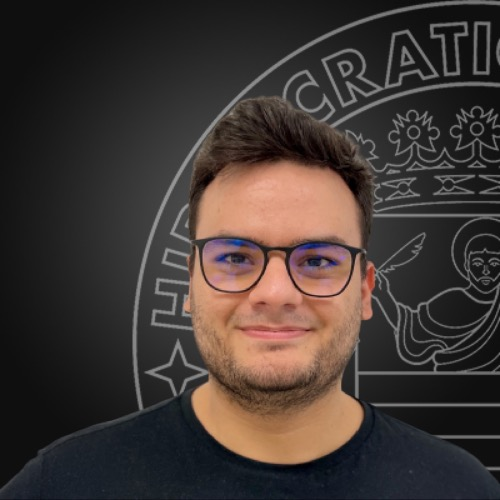
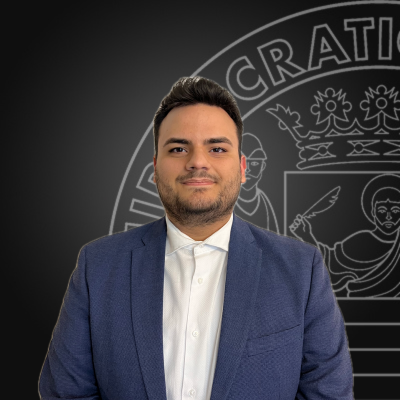
add luana, antoniot, move fabiano

diff --git a/en/index.html b/en/index.html
@@ -303,8 +303,8 @@
                 <p>
                   <a href="https://www.gemmacatolino.com//"><i class="bi bi-globe2" data-toggle="tooltip"
                       data-placement="bottom" title="Personal page"></i></a>
-                  <a href="mailto:g.catolino@tilburguniversity.edu"><i class="bi bi-envelope-fill" data-toggle="tooltip"
-                      data-placement="bottom" title="g.catolino@tilburguniversity.edu"></i></a>
+                  <a href="mailto:gcatolino@unisa.it"><i class="bi bi-envelope-fill" data-toggle="tooltip"
+                      data-placement="bottom" title="gcatolino@unisa.it"></i></a>
                   <a href="https://twitter.com/g_catolino"><i class="bi bi-twitter" data-toggle="tooltip"
                       data-placement="bottom" title="@g_catolino"></i></a>
                 </p>
@@ -320,27 +320,6 @@
         </header>
 
         <div class="row gy-4 justify-content-center">
-
-          <div class="col-lg-3 col-md-6  col-sm-8 d-flex justify-content-center" data-aos="fade-up"
-            data-aos-delay="100">
-            <div class="member">
-              <div class="member-img">
-                <img src="../assets/img/team/pecorelli.jpg" class="img-fluid" alt="">
-              </div>
-              <div class="member-info">
-                <h4>Fabiano Pecorelli</h4>
-                <span>Postdoctoral Researcher</span>
-                <p>
-                  <a href="https://fabiano-pecorelli.github.io/"><i class="bi bi-globe2" data-toggle="tooltip"
-                      data-placement="bottom" title="Personal page"></i></a>
-                  <a href="mailto:fpecorelli@unisa.it"><i class="bi bi-envelope-fill" data-toggle="tooltip"
-                      data-placement="bottom" title="fpecorelli@unisa.it"></i></a>
-                  <a href="https://twitter.com/FabianoPecorel1"><i class="bi bi-twitter" data-toggle="tooltip"
-                      data-placement="bottom" title="@FabianoPecorel1"></i></a>
-                </p>
-              </div>
-            </div>
-          </div>
 
           <div class="col-lg-3 col-md-6  col-sm-8 d-flex justify-content-center" data-aos="fade-up"
             data-aos-delay="100">
@@ -363,6 +342,26 @@
             </div>
 
           </div>
+          <div class="col-lg-3 col-md-6  col-sm-8 d-flex justify-content-center" data-aos="fade-up"
+          data-aos-delay="100">
+          <div class="member">
+            <div class="member-img">
+              <img src="../assets/img/team/martins.jpg" class="img-fluid" alt="">
+            </div>
+            <div class="member-info">
+              <h4>Luana Martins</h4>
+              <span>Postdoctoral Researcher</span>
+              <p>
+                <a href="https://github.com/luana-martins"><i class="bi bi-globe2" data-toggle="tooltip"
+                    data-placement="bottom" title="Personal page"></i></a>
+                <a href="mailto:lmartins@unisa.it"><i class="bi bi-envelope-fill" data-toggle="tooltip"
+                    data-placement="bottom" title="lmartins@unisa.it"></i></a>
+                <a href="https://twitter.com/luana_amartins"><i class="bi bi-twitter" data-toggle="tooltip"
+                    data-placement="bottom" title="@luana_amartins"></i></a>
+              </p>
+            </div>
+          </div>
+
 
         </div>
         <div class="row gy-4 justify-content-center">
@@ -378,8 +377,8 @@
                 <p>
                   <a href="#"><i class="bi bi-globe2" data-toggle="tooltip" data-placement="bottom"
                       title="Personal page"></i></a>
-                  <a href="#"><i class="bi bi-envelope-fill" data-toggle="tooltip" data-placement="bottom"
-                      title=""></i></a>
+                  <a href="mailto:asheykina@unisa.it"><i class="bi bi-envelope-fill" data-toggle="tooltip" data-placement="bottom"
+                      title="asheykina@unisa.it"></i></a>
                   <a href="#"><i class="bi bi-twitter" data-toggle="tooltip" data-placement="bottom" title=""></i></a>
                 </p>
               </div>
@@ -397,7 +396,7 @@
                 <p>
                   <a href="#"><i class="bi bi-globe2" data-toggle="tooltip" data-placement="bottom"
                       title="Personal page"></i></a>
-                  <a href="#"><i class="bi bi-envelope-fill" data-toggle="tooltip" data-placement="bottom"
+                  <a href="mailto:adellaporta@unisa.it"><i class="bi bi-envelope-fill" data-toggle="tooltip" data-placement="bottom"
                       title=""></i></a>
                   <a href="#"><i class="bi bi-twitter" data-toggle="tooltip" data-placement="bottom" title=""></i></a>
                 </p>
@@ -424,6 +423,25 @@
               </div>
             </div>
           </div>
+          <div class="col-lg-3 col-md-6  col-sm-8 d-flex justify-content-center" data-aos="fade-up"
+          data-aos-delay="100">
+          <div class="member">
+            <div class="member-img">
+              <img src="../assets/img/team/trovato.jpg" class="img-fluid" alt="">
+            </div>
+            <div class="member-info">
+              <h4>Antonio Trovato</h4>
+              <span>Research Fellow</span>
+              <p>
+                <a href="https://github.com/AntonioTrovato"><i class="bi bi-globe2" data-toggle="tooltip"
+                    data-placement="bottom" title="Personal page"></i></a>
+                <a href="mailto:atrovato@unisa.it"><i class="bi bi-envelope-fill" data-toggle="tooltip"
+                    data-placement="bottom" title="atrovato@unisa.it"></i></a>
+                
+              </p>
+            </div>
+          </div>
+        </div>
         </div>
 
         <header class="section-header">
@@ -774,7 +792,7 @@
               <span class="name">Gabriele Bavota</span> Ph.D. in Computer Science - advisor Andrea De Lucia<br />
               <!--<span class="name">Gemma Catolino</span> Ph.D. in Computer Science - advisor Filomena Ferrucci<br />-->
               <span class="name">Lucia De Marco</span> Ph.D. in Computer Science - advisor Filomena Ferrucci<br />
-              <span class="name">Sergio De Martino</span> Ph.D. in Computer Science - advisor Filomena Ferrucci<br />
+              <span class="name">Sergio Di Martino</span> Ph.D. in Computer Science - advisor Filomena Ferrucci<br />
               <span class="name">Manuel De Stefano</span> Ph.D. in Computer Science - advisor Andrea De Lucia<br />
               <span class="name">Fausto Fasano</span> Ph.D. in Computer Science - advisor Andrea De Lucia<br />
               <span class="name">Giovanni Grano</span> Master's degree in Computer Science - advisor Andrea De
@@ -784,6 +802,7 @@
               <span class="name">Annibale Panichella</span> Ph.D. in Computer Science - advisor Andrea De Lucia<br />
               <span class="name">Sebastiano Panichella</span> Master's degree in Computer Science - advisor Andrea De
               Lucia<br />
+              <span class="name">Fabiano Pecorelli</span> Ph.D. in Computer Science - advisor Andrea De Lucia<br />
               <span class="name">Valeria Pontillo</span> Ph.D. in Computer Science - advisor Filomena Ferrucci<br />
               <span class="name">Abdallah Qusef</span> Ph.D. in Computer Science - advisor Andrea De Lucia<br />
               <span class="name">Pasquale Salza</span> Ph.D. in Management and Information Technology - advisor Filomena
@@ -795,6 +814,7 @@
               Lucia<br />
               <span class="name">Michele Tufano</span> Master's degree in Computer Science - advisor Andrea De
               Lucia<br />
+            
             </p>
           </div>
 

diff --git a/it/index.html b/it/index.html
@@ -366,26 +366,6 @@
             data-aos-delay="100">
             <div class="member">
               <div class="member-img">
-                <img src="../assets/img/team/pecorelli.jpg" class="img-fluid" alt="">
-              </div>
-              <div class="member-info">
-                <h4>Fabiano Pecorelli</h4>
-                <span>Postdoctoral Researcher</span>
-                <p>
-                  <a href="https://fabiano-pecorelli.github.io/"><i class="bi bi-globe2" data-toggle="tooltip"
-                      data-placement="bottom" title="Personal page"></i></a>
-                  <a href="mailto:fpecorelli@unisa.it"><i class="bi bi-envelope-fill" data-toggle="tooltip"
-                      data-placement="bottom" title="fpecorelli@unisa.it"></i></a>
-                  <a href="https://twitter.com/FabianoPecorel1"><i class="bi bi-twitter" data-toggle="tooltip"
-                      data-placement="bottom" title="@FabianoPecorel1"></i></a>
-                </p>
-              </div>
-            </div>
-          </div>
-          <div class="col-lg-3 col-md-6  col-sm-8 d-flex justify-content-center" data-aos="fade-up"
-            data-aos-delay="100">
-            <div class="member">
-              <div class="member-img">
                 <img src="../assets/img/team/giordano.jpg" class="img-fluid" alt="">
               </div>
               <div class="member-info">
@@ -403,6 +383,28 @@
             </div>
 
           </div>
+          <div class="col-lg-3 col-md-6  col-sm-8 d-flex justify-content-center" data-aos="fade-up"
+          data-aos-delay="100">
+          <div class="member">
+            <div class="member-img">
+              <img src="../assets/img/team/martins.jpg" class="img-fluid" alt="">
+            </div>
+            <div class="member-info">
+              <h4>Luana Martins</h4>
+              <span>Postdoctoral Researcher</span>
+              <p>
+                <a href="https://github.com/luana-martins"><i class="bi bi-globe2" data-toggle="tooltip"
+                    data-placement="bottom" title="Personal page"></i></a>
+                <a href="mailto:lmartins@unisa.it"><i class="bi bi-envelope-fill" data-toggle="tooltip"
+                    data-placement="bottom" title="lmartins@unisa.it"></i></a>
+                <a href="https://twitter.com/luana_amartins"><i class="bi bi-twitter" data-toggle="tooltip"
+                    data-placement="bottom" title="@luana_amartins"></i></a>
+              </p>
+            </div>
+          </div>
+
+        </div>
+
         </div>
         <div class="row gy-4 justify-content-center">
           <div class="col-lg-3 col-md-6  col-sm-8 d-flex justify-content-center" data-aos="fade-up"
@@ -459,6 +461,25 @@
                       data-placement="bottom" title=""></i></a>
                   <a href="https://twitter.com/GerardoIulian0"><i class="bi bi-twitter" data-toggle="tooltip" data-placement="bottom"
                       title="@GerardoIulian0"></i></a>
+                </p>
+              </div>
+            </div>
+          </div>
+          <div class="col-lg-3 col-md-6  col-sm-8 d-flex justify-content-center" data-aos="fade-up"
+            data-aos-delay="100">
+            <div class="member">
+              <div class="member-img">
+                <img src="../assets/img/team/trovato.jpg" class="img-fluid" alt="">
+              </div>
+              <div class="member-info">
+                <h4>Antonio Trovato</h4>
+                <span>Research Fellow</span>
+                <p>
+                  <a href="https://github.com/AntonioTrovato"><i class="bi bi-globe2" data-toggle="tooltip"
+                      data-placement="bottom" title="Personal page"></i></a>
+                  <a href="mailto:atrovato@unisa.it"><i class="bi bi-envelope-fill" data-toggle="tooltip"
+                      data-placement="bottom" title="atrovato@unisa.it"></i></a>
+                  
                 </p>
               </div>
             </div>
@@ -788,7 +809,7 @@
               <span class="name">Gabriele Bavota</span> Ph.D. in Computer Science - advisor Andrea De Lucia<br />
               <!--<span class="name">Gemma Catolino</span> Ph.D. in Computer Science - advisor Filomena Ferrucci<br />-->
               <span class="name">Lucia De Marco</span> Ph.D. in Computer Science - advisor Filomena Ferrucci<br />
-              <span class="name">Sergio De Martino</span> Ph.D. in Computer Science - advisor Filomena Ferrucci<br />
+              <span class="name">Sergio Di Martino</span> Ph.D. in Computer Science - advisor Filomena Ferrucci<br />
               <span class="name">Manuel De Stefano</span> Ph.D. in Computer Science - advisor Andrea De Lucia<br />
               <span class="name">Fausto Fasano</span> Ph.D. in Computer Science - advisor Andrea De Lucia<br />
               <span class="name">Giovanni Grano</span> Master's degree in Computer Science - advisor Andrea De
@@ -798,6 +819,7 @@
               <span class="name">Annibale Panichella</span> Ph.D. in Computer Science - advisor Andrea De Lucia<br />
               <span class="name">Sebastiano Panichella</span> Master's degree in Computer Science - advisor Andrea De
               Lucia<br />
+              <span class="name">Fabiano Pecorelli</span> Ph.D. in Computer Science - advisor Andrea De Lucia<br />
               <span class="name">Valeria Pontillo</span> Ph.D. in Computer Science - advisor Filomena Ferrucci<br />
               <span class="name">Abdallah Qusef</span> Ph.D. in Computer Science - advisor Andrea De Lucia<br />
               <span class="name">Pasquale Salza</span> Ph.D. in Management and Information Technology - advisor Filomena
